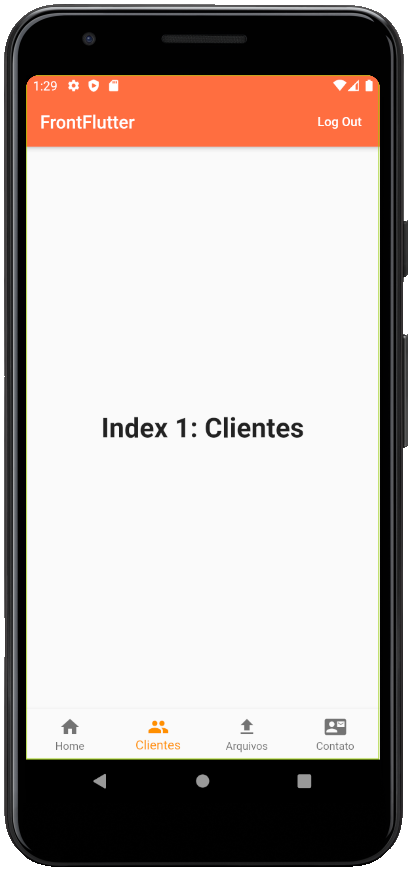
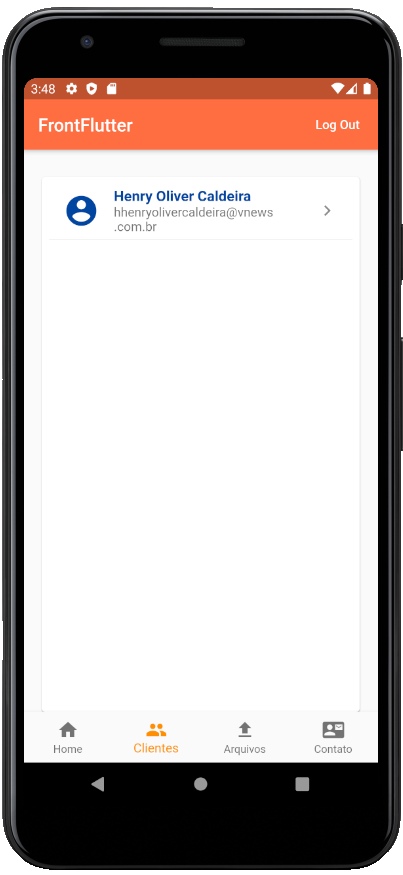
lista de clientes

diff --git a/lib/clientes.dart b/lib/clientes.dart
@@ -1,0 +1,110 @@
+import 'dart:convert';
+import 'dart:io';
+
+import 'package:flutter/material.dart';
+import 'package:http/http.dart' as http;
+import 'package:shared_preferences/shared_preferences.dart';
+
+class Cliente {
+  final int id;
+  final String nome;
+  final String cidade;
+  final String email;
+  final String sexo;
+
+  Cliente({this.id, this.nome, this.cidade, this.email, this.sexo});
+
+  factory Cliente.fromJson(Map<String, dynamic> json) {
+    return Cliente(
+      id: json['id'],
+      nome: json['nome'],
+      cidade: json['cidade'],
+      email: json['email'],
+      sexo: json['sexo'],
+    );
+  }
+}
+
+class ClientesPage extends StatelessWidget {
+  Future<Cliente> clientes;
+
+  @override
+  void initState() {
+    print("initState");
+    clientes = buscaClientes();
+  }
+
+  @override
+  Widget build(BuildContext context) {
+    clientes = buscaClientes();
+    return Column(children: <Widget>[
+      FutureBuilder<Cliente>(
+        future: clientes,
+        builder: (context, snapshot) {
+          if (snapshot.hasData) {
+            return Expanded(
+              child: Card(
+                margin: EdgeInsets.fromLTRB(20, 30, 20, 0),
+                child: Scrollbar(
+                  child: ListView.builder(
+                    padding: const EdgeInsets.all(8),
+                    itemBuilder: (context, index) {
+                      return Column(
+                        children: <Widget>[
+                          ListTile(
+                            leading: Icon(
+                              Icons.account_circle,
+                              color: Colors.blue[900],
+                              size: 40.0,
+                            ),
+                            title: Text(
+                              snapshot.data.nome,
+                              style: TextStyle(
+                                  color: Colors.blue[900],
+                                  fontWeight: FontWeight.bold),
+                            ),
+                            subtitle: Text(snapshot.data.email),
+                            trailing: Icon(Icons.keyboard_arrow_right),
+                            onTap: () {},
+                          ),
+                          Divider(
+                            height: 5.0,
+                          ),
+                        ],
+                      );
+                    },
+                    itemCount: 1,
+                  ),
+                ),
+              ),
+            );
+          } else if (snapshot.hasError) {
+            return Text("${snapshot.error}");
+          }
+
+          // By default, show a loading spinner.
+          return CircularProgressIndicator();
+        },
+      )
+    ]);
+  }
+}
+
+Future<Cliente> buscaClientes() async {
+  SharedPreferences sharedPreferences = await SharedPreferences.getInstance();
+  var url = "http://10.0.2.2:5003/api/Cliente/1";
+
+  var token = sharedPreferences.getString("token");
+  print("sharedPreferences : " + token);
+  var headers = {
+    "Content-Type": "application/json",
+    "accept": "*/*",
+    HttpHeaders.authorizationHeader: 'Bearer $token',
+  };
+  var jsonResponse = null;
+  var response = await http.get(url, headers: headers);
+  if (response.statusCode == 200) {
+    print("jsonResponse : " + response.body);
+    return Cliente.fromJson(json.decode(response.body));
+  }
+}

diff --git a/lib/main.dart b/lib/main.dart
@@ -5,6 +5,7 @@ import 'package:flutter/services.dart';
 import 'package:http/http.dart' as http;
 import 'package:shared_preferences/shared_preferences.dart';
 
+import 'clientes.dart';
 import 'contact.dart';
 import 'login.dart';
 
@@ -44,15 +45,12 @@ class _MainPageState extends State<MainPage> {
       'Index 0: Home',
       style: optionStyle,
     ),
-    Text(
-      'Index 1: Clientes',
-      style: optionStyle,
-    ),
+  ClientesPage(),
     Text(
       'Index 2: Arquivos',
       style: optionStyle,
     ),
-     _buildContact(),
+     ContactPage(),
   ];
     void _onItemTapped(int index) {
     setState(() {
@@ -62,67 +60,6 @@ class _MainPageState extends State<MainPage> {
 
 
 
-   static TextEditingController nameController = new TextEditingController();
-   static TextEditingController emailController = new TextEditingController();
-      static TextEditingController mensagemController = new TextEditingController();
-
- static Widget _buildContact() {
-  return Expanded(
-    child: Column(
-      children: <Widget>[
-        SizedBox(height: 30.0),
-            TextFormField(
-            controller: nameController,
-            cursorColor: Colors.white,
-
-            style: TextStyle(color: Colors.black),
-            decoration: InputDecoration(
-             hintText: 'Nome',
-        contentPadding: EdgeInsets.fromLTRB(20.0, 10.0, 20.0, 10.0),
-        border: OutlineInputBorder(borderRadius: BorderRadius.circular(32.0)),
-            ),
-          ),
-          SizedBox(height: 30.0),
-          TextFormField(
-            controller: emailController,
-            cursorColor: Colors.white,
-            obscureText: true,
-            style: TextStyle(color: Colors.black),
-            decoration: InputDecoration(
-              hintText: 'Email',
-        contentPadding: EdgeInsets.fromLTRB(20.0, 10.0, 20.0, 10.0),
-        border: OutlineInputBorder(borderRadius: BorderRadius.circular(32.0)),
-            ),
-          ),
-           Text('Não compartilharemos seu email com mais ninguém.', style: TextStyle(color: Colors.grey, fontSize: 12.0)),
-           SizedBox(height: 30.0),
-          Card(
-              child: TextField(
-                maxLines: 8,
-                 controller: mensagemController,
-               decoration: InputDecoration(
-              hintText: 'Escreva sua mensagem aqui',
-        contentPadding: EdgeInsets.fromLTRB(20.0, 10.0, 20.0, 10.0),
-        border: OutlineInputBorder(borderRadius: BorderRadius.circular(32.0)),
-            ),
-              ),
-          ),
-          SizedBox(height: 30.0),
-         RaisedButton(
-        onPressed: emailController.text == "" || nameController.text == "" || mensagemController.text == "" ? null : () {
-        //todo
-        },
-        shape: RoundedRectangleBorder(
-                        borderRadius:BorderRadius.circular(30.0)
-                      ),
-        color: Colors.green,
-        disabledColor: Colors.green[100],
-        child: Text('Enviar', style: TextStyle(color: Colors.white70, fontSize: 16.0)),
-      ),
-      ]
-    )
-  );
-}
 
   @override
   void initState() {

diff --git a/lib/contact.dart b/lib/contact.dart
@@ -1,10 +1,67 @@
 import 'package:flutter/material.dart';
 
-class ContactPage extends StatelessWidget {
+
+class ContactPage extends StatelessWidget{
+
+   static TextEditingController nameController = new TextEditingController();
+   static TextEditingController emailController = new TextEditingController();
+      static TextEditingController mensagemController = new TextEditingController();
+  
   @override
-  Widget build(BuildContext context) {
-    return Scaffold(
-      body: Center(child: Text('Contact'),),
-    );
-  }
+  Widget build(BuildContext context){
+      return  Column(
+      children: <Widget>[
+        SizedBox(height: 30.0),
+            TextFormField(
+            controller: nameController,
+            cursorColor: Colors.white,
+
+            style: TextStyle(color: Colors.black),
+            decoration: InputDecoration(
+             hintText: 'Nome',
+        contentPadding: EdgeInsets.fromLTRB(20.0, 10.0, 20.0, 10.0),
+        border: OutlineInputBorder(borderRadius: BorderRadius.circular(32.0)),
+            ),
+          ),
+          SizedBox(height: 30.0),
+          TextFormField(
+            controller: emailController,
+            cursorColor: Colors.white,
+            obscureText: true,
+            style: TextStyle(color: Colors.black),
+            decoration: InputDecoration(
+              hintText: 'Email',
+        contentPadding: EdgeInsets.fromLTRB(20.0, 10.0, 20.0, 10.0),
+        border: OutlineInputBorder(borderRadius: BorderRadius.circular(32.0)),
+            ),
+          ),
+           Text('Não compartilharemos seu email com mais ninguém.', style: TextStyle(color: Colors.grey, fontSize: 12.0)),
+           SizedBox(height: 30.0),
+          Card(
+              child: TextField(
+                maxLines: 8,
+                 controller: mensagemController,
+               decoration: InputDecoration(
+              hintText: 'Escreva sua mensagem aqui',
+        contentPadding: EdgeInsets.fromLTRB(20.0, 10.0, 20.0, 10.0),
+        border: OutlineInputBorder(borderRadius: BorderRadius.circular(32.0)),
+            ),
+              ),
+          ),
+          SizedBox(height: 30.0),
+         RaisedButton(
+        onPressed: emailController.text == "" || nameController.text == "" || mensagemController.text == "" ? null : () {
+        //todo
+        },
+        shape: RoundedRectangleBorder(
+                        borderRadius:BorderRadius.circular(30.0)
+                      ),
+        color: Colors.green,
+        disabledColor: Colors.green[100],
+        child: Text('Enviar', style: TextStyle(color: Colors.white70, fontSize: 16.0)),
+      ),
+      ]
+    
+  );
+}
 }
